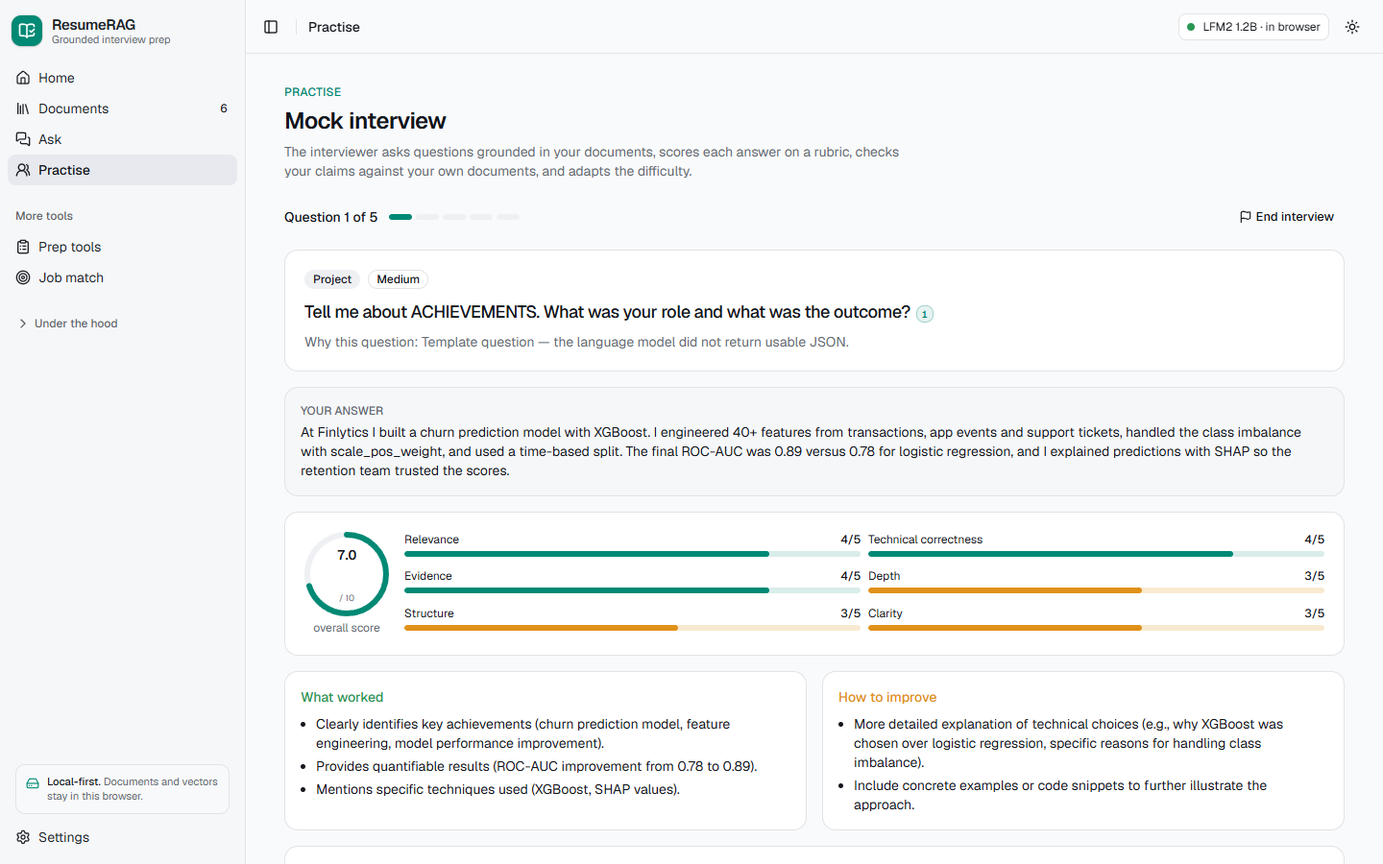
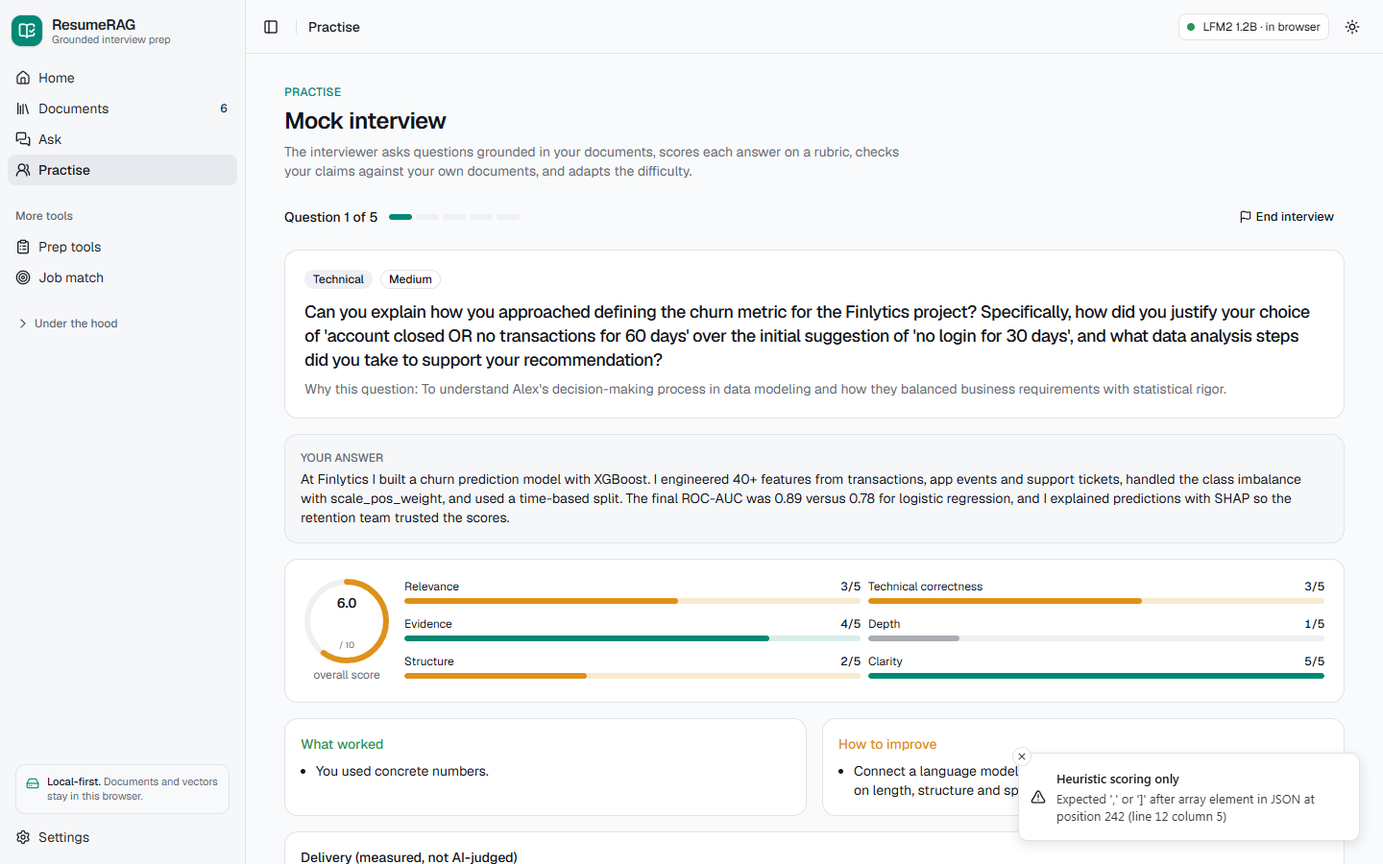
Rescue JSON that is only missing a comma, and drop parser jargon
A live mock interview scored heuristically because the model returned
"Expected ',' or ']' after array element" - the reply was complete and
correct apart from a missing separator between two array items. extractJson
now repairs missing commas between adjacent values (leaving valid JSON,
including braces and quotes inside strings, untouched) before giving up.

The toasts that announce a fallback no longer quote the parser: they say
what happened in plain words via fallbackReason().

Changed region(s): [[0.2188, 0.3111, 0.9688, 0.9644], [0.2188, 0.9644, 0.375, 1.0]]

diff --git a/src/lib/llm/json.ts b/src/lib/llm/json.ts
@@ -27,9 +27,21 @@ export function extractJson(text: string): unknown {
   const start = trimmed.search(/[{[]/);
   if (start < 0) throw new Error("No JSON found in model output.");
   const candidate = balancedSlice(trimmed, start);
-  if (candidate) return JSON.parse(candidate);
+  if (candidate) {
+    try {
+      return JSON.parse(candidate);
+    } catch {
+      // Brackets balance, so the damage is inside: usually a missing separator.
+      return JSON.parse(addMissingCommas(candidate));
+    }
+  }
   // Output was cut off: close any open strings/brackets and try once more.
-  return JSON.parse(repairTruncated(trimmed.slice(start)));
+  const truncated = repairTruncated(trimmed.slice(start));
+  try {
+    return JSON.parse(truncated);
+  } catch {
+    return JSON.parse(addMissingCommas(truncated));
+  }
 }
 
 /** Returns the substring from `start` to its matching closing bracket, if complete. */
@@ -76,6 +88,41 @@ function repairTruncated(text: string): string {
   repaired = repaired.replace(/,?\s*"[^"]*"\s*:\s*$/, "").replace(/,\s*$/, "");
   if (stack[stack.length - 1] === "}") repaired = repaired.replace(/([{,]\s*)"[^"]*"\s*$/, "$1").replace(/,\s*$/, "");
   return repaired + stack.reverse().join("");
+}
+
+/**
+ * Small models drop the comma between array items or object members, especially when the value
+ * ends a line. Adding it back rescues output that is otherwise complete and correct.
+ */
+export function addMissingCommas(json: string): string {
+  const out: string[] = [];
+  let inString = false;
+  let escaped = false;
+  /** The last character outside a string that was not whitespace. */
+  let previous = "";
+  for (const ch of json) {
+    if (inString) {
+      out.push(ch);
+      if (escaped) escaped = false;
+      else if (ch === "\\") escaped = true;
+      else if (ch === '"') {
+        inString = false;
+        previous = '"';
+      }
+      continue;
+    }
+    // A value cannot follow another value directly: the comma is missing.
+    if ((ch === '"' || ch === "{" || ch === "[") && endsValue(previous)) out.push(",");
+    out.push(ch);
+    if (ch === '"') inString = true;
+    if (!/\s/.test(ch)) previous = ch;
+  }
+  return out.join("");
+}
+
+/** True when the character closes a JSON value (string, object, array, number or keyword). */
+function endsValue(ch: string): boolean {
+  return ch === '"' || ch === "}" || ch === "]" || /\w/.test(ch);
 }
 
 export function parseWithSchema<T extends z.ZodType>(text: string, schema: T): z.infer<T> {

diff --git a/src/app/(app)/mock/page.tsx b/src/app/(app)/mock/page.tsx
@@ -30,9 +30,10 @@ import { Textarea } from "@/components/ui/textarea";
 import { ToggleGroup, ToggleGroupItem } from "@/components/ui/toggle-group";
 import { saveQuestion } from "@/lib/client/question-bank";
 import { useSettings } from "@/lib/client/settings";
+import { fallbackReason } from "@/lib/workflows/common";
 import type { Difficulty, MockSessionRecord, MockTurn } from "@/lib/db/records";
 import { getDb } from "@/lib/db/schema";
-import { formatRelative, newId } from "@/lib/format";
+import { formatRelative, newId, capitalise } from "@/lib/format";
 import type { DetectedProject } from "@/lib/rag/analysis/projects";
 import type { BuiltContext } from "@/lib/rag/generation/context";
 import { cn } from "@/lib/utils";
@@ -93,7 +94,7 @@ function MockInterview() {
     setBusy("question");
     try {
       const q = await nextQuestion(cfg, record.turns, difficulty, settings);
-      if (q.error) toast.warning("Using a template question", { description: q.error });
+      if (q.error) toast.warning("Using a template question", { description: `${capitalise(fallbackReason(q.error))}.` });
       const turns = [...record.turns, q.turn];
       setLive((l) => ({ ...l, [turns.length - 1]: { whyAsked: q.whyAsked, context: q.context } }));
       await persist({ ...record, turns });
@@ -112,7 +113,7 @@ function MockInterview() {
     setChars(0);
     try {
       const result = await evaluateAnswer(turn, answer, settings, setChars);
-      if (result.error) toast.warning("Heuristic scoring only", { description: result.error });
+      if (result.error) toast.warning("Heuristic scoring only", { description: `${capitalise(fallbackReason(result.error))}.` });
       const turns = session.turns.map((t, i) => (i === index ? { ...t, answer, evaluation: result.evaluation } : t));
       setLive((l) => ({ ...l, [index]: { ...l[index], evalContext: result.context, stats: result.stats } }));
       await persist({ ...session, turns });

diff --git a/tests/unit/llm.test.ts b/tests/unit/llm.test.ts
@@ -1,5 +1,5 @@
 import { afterEach, beforeEach, describe, expect, it, vi } from "vitest";
-import { extractJson, parseWithSchema } from "@/lib/llm/json";
+import { addMissingCommas, extractJson, parseWithSchema } from "@/lib/llm/json";
 import { OllamaProvider } from "@/lib/llm/providers/ollama";
 import { OpenAICompatibleProvider } from "@/lib/llm/providers/openai-compatible";
 import { BROWSER_MODELS, browserModelWeightsUrl, DEFAULT_BROWSER_MODEL_ID, getBrowserModel } from "@/lib/llm/browser-models";
@@ -79,6 +79,16 @@ describe("extractJson", () => {
     expect(extractJson('{"a":1}')).toEqual({ a: 1 });
     expect(extractJson('```json\n{"a":[1,2]}\n```')).toEqual({ a: [1, 2] });
     expect(extractJson('Sure! Here it is: {"ok":true} Hope this helps.')).toEqual({ ok: true });
+  });
+
+  it("repairs a missing separator between values", () => {
+    // Observed from a 1.2B model: an array item and an object member with no comma.
+    expect(extractJson('{"strengths":["clear structure" "good numbers"]}')).toEqual({ strengths: ["clear structure", "good numbers"] });
+    expect(extractJson('{"scores":{"relevance":3 "clarity":4}}')).toEqual({ scores: { relevance: 3, clarity: 4 } });
+    expect(extractJson('{"items":[{"a":1} {"b":2}]}')).toEqual({ items: [{ a: 1 }, { b: 2 }] });
+    // Valid JSON, including strings that contain braces and quotes, must be untouched.
+    expect(extractJson('{"a":"he said \\"hi\\" {not json}","b":[1,2]}')).toEqual({ a: 'he said "hi" {not json}', b: [1, 2] });
+    expect(addMissingCommas('{"a": {"b": 1}}')).toBe('{"a": {"b": 1}}');
   });
 
   it("repairs output that was cut off mid-way", () => {

diff --git a/src/app/(app)/prep/questions/page.tsx b/src/app/(app)/prep/questions/page.tsx
@@ -16,9 +16,10 @@ import { Slider } from "@/components/ui/slider";
 import { ToggleGroup, ToggleGroupItem } from "@/components/ui/toggle-group";
 import { saveQuestion } from "@/lib/client/question-bank";
 import { useSettings } from "@/lib/client/settings";
+import { fallbackReason } from "@/lib/workflows/common";
 import type { Difficulty, QuestionCategory, SavedQuestion } from "@/lib/db/records";
 import { getDb } from "@/lib/db/schema";
-import { formatRelative } from "@/lib/format";
+import { formatRelative, capitalise } from "@/lib/format";
 import { cn } from "@/lib/utils";
 import { CATEGORY_INFO, generateQuestions, type QuestionSet } from "@/lib/workflows/questions";
 
@@ -55,7 +56,7 @@ function Generator() {
     try {
       const r = await generateQuestions({ category, difficulty, count, focus: focus.trim() || undefined }, settings, setChars);
       setResult(r);
-      if (r.error) toast.warning("Used template questions", { description: r.error });
+      if (r.error) toast.warning("Used template questions", { description: `${capitalise(fallbackReason(r.error))}.` });
     } finally {
       setChars(null);
     }

diff --git a/src/lib/format.ts b/src/lib/format.ts
@@ -36,3 +36,8 @@ export function truncate(text: string, max: number): string {
 export function newId(): string {
   return crypto.randomUUID();
 }
+
+/** "no language model was reachable" → "No language model was reachable" (for toasts and notices). */
+export function capitalise(text: string): string {
+  return text.charAt(0).toUpperCase() + text.slice(1);
+}

diff --git a/docs/CODEBASE_GUIDE.md b/docs/CODEBASE_GUIDE.md
@@ -246,32 +246,33 @@ All client-side ("use client"), all built from `common.ts`:
 
 ## `src/components/`
 
-| Folder       | Contents                                                                                                                                                                                                                             |
-| ------------ | ------------------------------------------------------------------------------------------------------------------------------------------------------------------------------------------------------------------------------------ |
-| `app-shell/` | `app-sidebar.tsx`, `topbar.tsx` (model download pill, LLM status pill, theme toggle), `nav.ts`, `rag-bridge.tsx` (syncs settings to the worker, pre-loads models).                                                                   |
-| `chat/`      | `assistant-message.tsx`, `citation-chip.tsx` (hover preview), `source-card.tsx`, `evidence-panel.tsx` (Sources / Pipeline / Prompt tabs), `pipeline-trace.tsx` ("How this answer was generated" + candidates table), `composer.tsx`. |
-| `documents/` | `upload-dropzone.tsx`, `paste-dialog.tsx`, `document-list.tsx` (status, progress, retry, type change), `document-viewer.tsx` (chunks with overlap shading, parsed text), `demo-button.tsx`.                                          |
-| `common/`    | `page-header.tsx`, `doc-type.tsx`, `score-bar.tsx` (meters and rings), `confidence-badge.tsx`, `markdown.tsx` (safe rendering), `cited-text.tsx`, `feature-states.tsx` (empty/LLM notices), `severity.tsx`.                          |
-| `charts/`    | `grouped-bars.tsx` — accessible, colour-blind-safe metric bars.                                                                                                                                                                      |
-| `brand/`     | `logo.tsx`.                                                                                                                                                                                                                          |
-| `ui/`        | shadcn/ui primitives (generated; edit freely).                                                                                                                                                                                       |
+| Folder       | Contents                                                                                                                                                                                                                                                                                                        |
+| ------------ | --------------------------------------------------------------------------------------------------------------------------------------------------------------------------------------------------------------------------------------------------------------------------------------------------------------- |
+| `app-shell/` | `app-sidebar.tsx` (primary items, "More tools", collapsible "Under the hood"), `topbar.tsx` (model download pill, LLM status pill, theme toggle), `activity-bar.tsx` (progress under the header for model downloads and indexing), `nav.ts`, `rag-bridge.tsx` (syncs settings to the worker, pre-loads models). |
+| `chat/`      | `assistant-message.tsx`, `citation-chip.tsx` (hover preview), `source-card.tsx`, `evidence-panel.tsx` (Sources / Pipeline / Prompt tabs), `pipeline-trace.tsx` ("How this answer was generated" + candidates table), `composer.tsx`.                                                                            |
+| `documents/` | `upload-dropzone.tsx`, `paste-dialog.tsx`, `document-list.tsx` (status, progress, retry, type change), `document-viewer.tsx` (chunks with overlap shading, parsed text), `demo-button.tsx`.                                                                                                                     |
+| `common/`    | `page-header.tsx`, `page-skeleton.tsx` (loading placeholders), `doc-type.tsx`, `score-bar.tsx` (meters and rings), `confidence-badge.tsx`, `markdown.tsx` (safe rendering), `cited-text.tsx`, `feature-states.tsx` (empty/LLM notices), `severity.tsx`.                                                         |
+| `charts/`    | `grouped-bars.tsx` — accessible, colour-blind-safe metric bars.                                                                                                                                                                                                                                                 |
+| `brand/`     | `logo.tsx`.                                                                                                                                                                                                                                                                                                     |
+| `ui/`        | shadcn/ui primitives (generated; edit freely).                                                                                                                                                                                                                                                                  |
 
 ## `src/app/` — routes
 
-| Route                                                                                          | File                                    | Notes                                                       |
-| ---------------------------------------------------------------------------------------------- | --------------------------------------- | ----------------------------------------------------------- |
-| `/`                                                                                            | `page.tsx`                              | Landing page (server component; reads reference eval JSON). |
-| `/dashboard`                                                                                   | `(app)/dashboard/page.tsx`              | Readiness score, next steps; `?demo=1` loads the demo.      |
-| `/documents`                                                                                   | `(app)/documents/page.tsx`              | Knowledge base.                                             |
-| `/ask`                                                                                         | `(app)/ask/page.tsx`                    | Chat with evidence panel, history, scope selector.          |
-| `/prep`, `/prep/resume`, `/prep/project`, `/prep/questions`, `/prep/star`, `/prep/consistency` | `(app)/prep/**`                         | Prep studio tools.                                          |
-| `/mock`                                                                                        | `(app)/mock/page.tsx`                   | Mock interview.                                             |
-| `/jd`                                                                                          | `(app)/jd/page.tsx`                     | JD match.                                                   |
-| `/lab`                                                                                         | `(app)/lab/page.tsx`                    | Retrieval playground.                                       |
-| `/evaluation`                                                                                  | `(app)/evaluation/page.tsx`             | Evaluation.                                                 |
-| `/settings`                                                                                    | `(app)/settings/page.tsx`               | Settings.                                                   |
-| —                                                                                              | `(app)/layout.tsx`                      | Sidebar shell for all app pages.                            |
-| —                                                                                              | `layout.tsx`, `globals.css`, `icon.svg` | Root layout, theme tokens, favicon.                         |
+| Route                                                                                          | File                                    | Notes                                                                                   |
+| ---------------------------------------------------------------------------------------------- | --------------------------------------- | --------------------------------------------------------------------------------------- |
+| `/`                                                                                            | `page.tsx`                              | Landing page (server component; reads reference eval JSON).                             |
+| `/dashboard`                                                                                   | `(app)/dashboard/page.tsx`              | Home: three steps, the two primary actions, next step, tools; `?demo=1` loads the demo. |
+| `/documents`                                                                                   | `(app)/documents/page.tsx`              | Knowledge base.                                                                         |
+| `/ask`                                                                                         | `(app)/ask/page.tsx`                    | Chat with evidence panel, history, scope selector.                                      |
+| `/prep`, `/prep/resume`, `/prep/project`, `/prep/questions`, `/prep/star`, `/prep/consistency` | `(app)/prep/**`                         | Prep tools.                                                                             |
+| `/mock`                                                                                        | `(app)/mock/page.tsx`                   | Mock interview.                                                                         |
+| `/jd`                                                                                          | `(app)/jd/page.tsx`                     | Job match.                                                                              |
+| `/lab`                                                                                         | `(app)/lab/page.tsx`                    | Retrieval playground.                                                                   |
+| `/evaluation`                                                                                  | `(app)/evaluation/page.tsx`             | Evaluation.                                                                             |
+| `/settings`                                                                                    | `(app)/settings/page.tsx`               | Settings.                                                                               |
+| —                                                                                              | `(app)/layout.tsx`                      | Sidebar shell, top bar and activity bar for all app pages.                              |
+| —                                                                                              | `(app)/loading.tsx`, `(app)/error.tsx`  | Route-level skeleton and error boundary.                                                |
+| —                                                                                              | `layout.tsx`, `globals.css`, `icon.svg` | Root layout, theme tokens, favicon.                                                     |
 
 ## Scripts, tests and data
 

diff --git a/README.md b/README.md
@@ -149,7 +149,7 @@ Each stage earns its place: fusion raises recall over semantic search, reranking
 | Parsing        | **unpdf** (pdf.js) with layout reconstruction, **mammoth** (DOCX), custom Markdown/TXT                 | Page numbers and heading structure for citations                                                                    |
 | Generation     | **LFM2 1.2B in the browser** (default on the deployed site), Ollama, OpenAI-compatible or Hugging Face | Free, private and keyless out of the box ([how it was chosen](docs/DESIGN_DECISIONS.md#13a-which-in-browser-model)) |
 | Validation     | **zod** (API requests, LLM JSON outputs, env)                                                          | Model output is untrusted input                                                                                     |
-| Testing        | Vitest (119 unit tests), Playwright (E2E smoke), offline eval script                                   |                                                                                                                     |
+| Testing        | Vitest (120 unit tests), Playwright (E2E smoke), offline eval script                                   |                                                                                                                     |
 
 ## Project structure
 
@@ -207,7 +207,7 @@ Then open the app, click **Try the demo workspace**, and ask _"How did I handle 
 | Command                                                 | What it does                                                                                                                                                                                  |
 | ------------------------------------------------------- | --------------------------------------------------------------------------------------------------------------------------------------------------------------------------------------------- |
 | `npm run dev` / `npm run build` / `npm start`           | Develop, build, serve                                                                                                                                                                         |
-| `npm test`                                              | 119 unit tests (chunking, parsing, BM25, fusion, query expansion, retrieval, confidence, citations and verification, analysis rules, JD scoring, LLM providers and streaming, API validation) |
+| `npm test`                                              | 120 unit tests (chunking, parsing, BM25, fusion, query expansion, retrieval, confidence, citations and verification, analysis rules, JD scoring, LLM providers and streaming, API validation) |
 | `npm run test:e2e`                                      | Playwright smoke test (run `npx playwright install chromium` once)                                                                                                                            |
 | `npm run eval`                                          | Offline retrieval evaluation (`-- --grid` adds a chunk-size sweep, `-- --inspect --blocks` prints how each demo document was parsed and chunked)                                              |
 | `npm run typecheck` / `npm run lint` / `npm run format` | Quality checks                                                                                                                                                                                |

diff --git a/docs/PROJECT_OVERVIEW.md b/docs/PROJECT_OVERVIEW.md
@@ -255,7 +255,7 @@ most RAG demos never show: BM25 alone happily answers questions about jobs you n
 | Size            | ~18.6k lines of TypeScript/TSX; the framework-independent RAG core is ~7.4k of that                                                                                                                                                                                                               |
 | Structure       | `src/lib/rag` (pure pipeline: parsing, chunking, embeddings, retrieval, reranking, generation, analysis, evaluation) · `src/lib/workflows` (feature logic) · `src/lib/llm` (providers plus the in-browser model) · `src/workers` (RAG and LLM workers) · `src/app` (19 routes) · `src/components` |
 | Portability     | The RAG core depends on neither React, Next.js nor IndexedDB, so the identical code runs in the browser worker, in Node (`npm run eval`) and in unit tests                                                                                                                                        |
-| Tests           | 119 unit tests (chunking, parsing, BM25, fusion, expansion, retrieval, confidence, citation verification, analysis rules, JD scoring, LLM providers, API validation) plus a Playwright end-to-end test that ingests the demo set, asks a question and asserts both a citation and a refusal       |
+| Tests           | 120 unit tests (chunking, parsing, BM25, fusion, expansion, retrieval, confidence, citation verification, analysis rules, JD scoring, LLM providers, API validation) plus a Playwright end-to-end test that ingests the demo set, asks a question and asserts both a citation and a refusal       |
 | Quality gates   | `npm run check` = typecheck + lint + tests + build; Prettier; GitHub Actions CI runs all four                                                                                                                                                                                                     |
 | Reproducibility | `npm run demo:generate` builds the sample PDFs/DOCX; `npm run eval` regenerates the benchmark the app displays                                                                                                                                                                                    |
 

diff --git a/docs/INTERVIEW_CHEATSHEET.md b/docs/INTERVIEW_CHEATSHEET.md
@@ -33,7 +33,7 @@ Query: rewrite follow-up → embed → dense top-20 + BM25 top-20 (interview-awa
 - Eval (30 Qs, 4 unanswerable): semantic **78.8%** recall / MRR **0.71** → hybrid **88.5%** / **0.80** → + rerank **100%** / **0.894**, nDCG **0.92**, answer/refuse **96.7%**, all unanswerable refused.
 - Retrieval ~**1.3 s** in the browser (rerank dominates; **0.37 s** in Node). Was ~4.5 s until COOP/COEP headers enabled multi-threaded WASM. Generation ~**6 tok/s** on a CPU (qwen 7B).
 - Citation verification: **14/15** labelled pairs judged correctly.
-- **119** unit tests; Playwright E2E; `npm run eval`.
+- **120** unit tests; Playwright E2E; `npm run eval`.
 
 ## Terminology (one line each)
 
